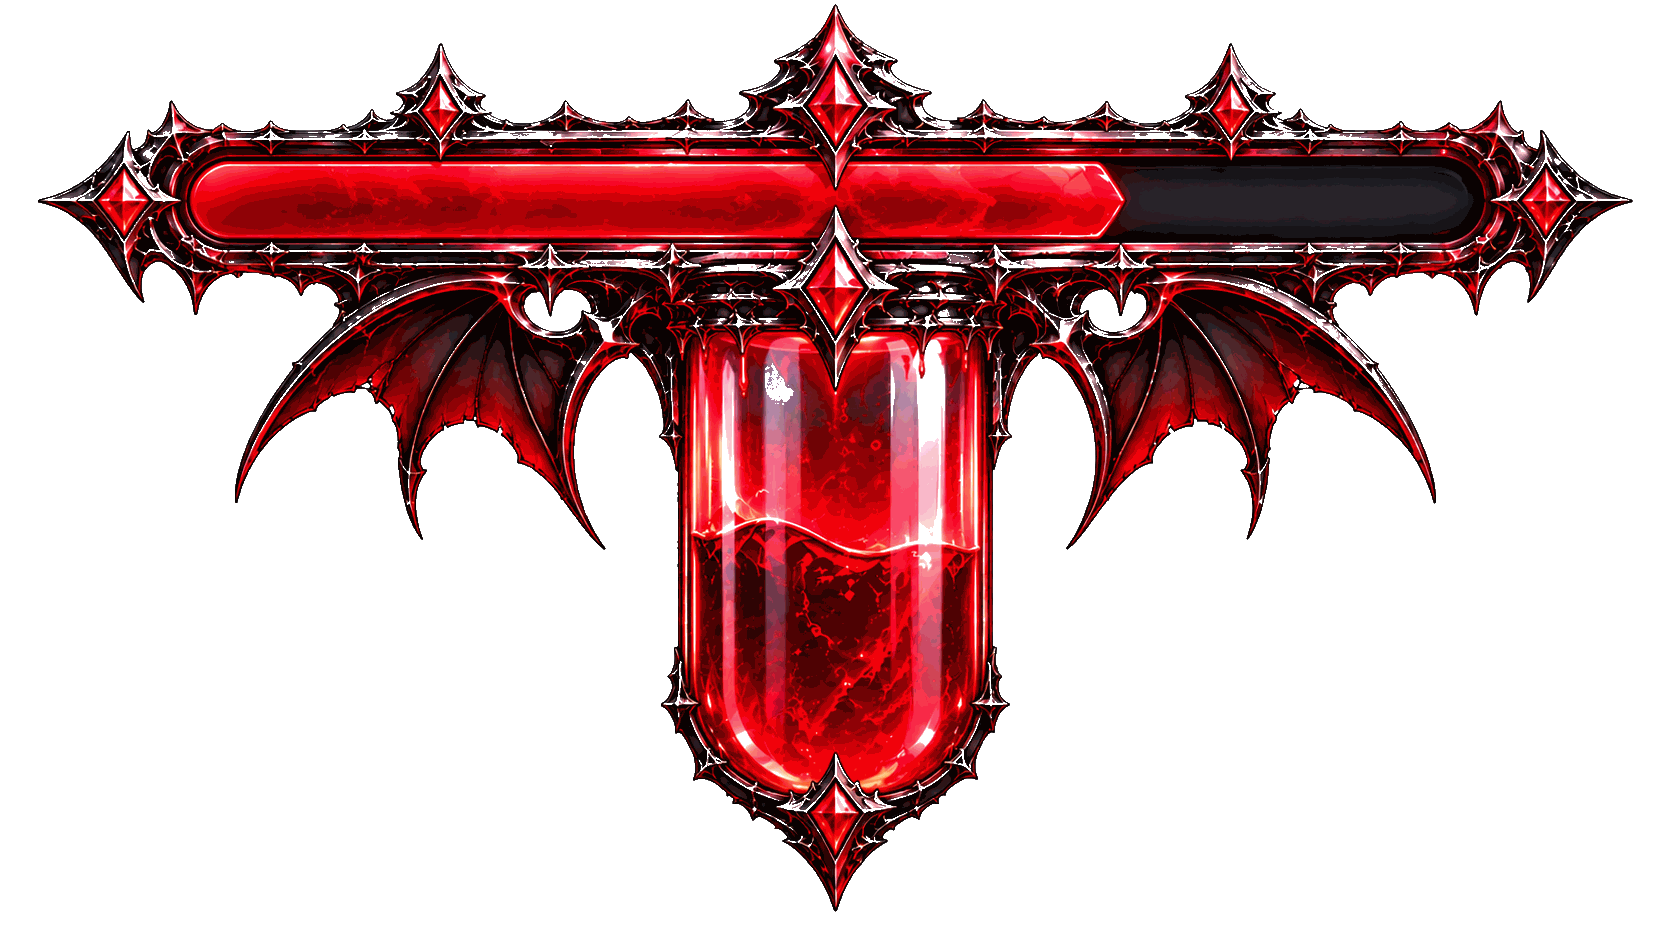
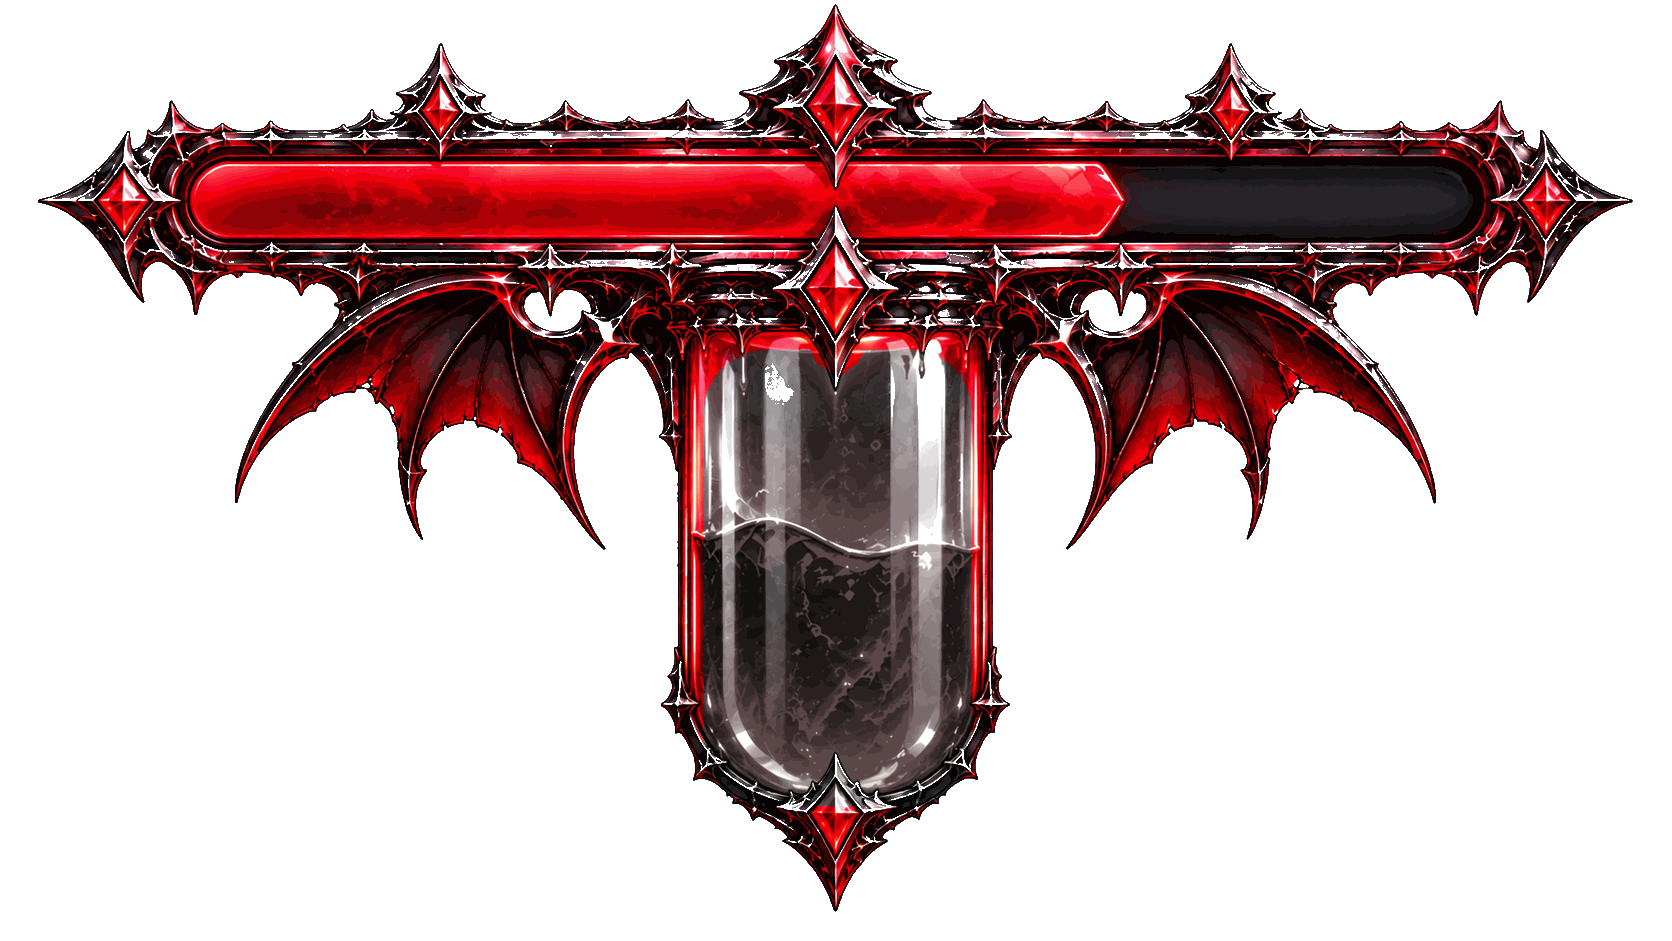
Add files via upload

Changed region(s): [[0.4043, 0.3698, 0.5909, 0.8629]]

diff --git a/index.html b/index.html
@@ -1,7 +1,20 @@
-<!doctype html><html lang="ru"><head><meta charset="utf-8"><meta name="viewport" content="width=device-width,initial-scale=1"><title>Vampire Donation Widget</title><style>
-html,body{margin:0;background:transparent;overflow:hidden;width:100%;height:100%} .widget{position:relative;width:min(100vw,1672px);aspect-ratio:1672/941;margin:0 auto;overflow:hidden}.base{position:absolute;inset:0;width:100%;height:100%;object-fit:contain;display:block}.overlay{position:absolute;inset:0;width:100%;height:100%}.amount{font:700 34px Georgia,serif;fill:#fff;text-anchor:middle;paint-order:stroke;stroke:#111;stroke-width:3px}.pct{font:700 18px Georgia,serif;fill:#fff;text-anchor:middle;paint-order:stroke;stroke:#111;stroke-width:2px}</style></head><body><div class="widget"><img class="base" src="altar.png"><svg class="overlay" viewBox="0 0 1672 941" preserveAspectRatio="none" xmlns="http://www.w3.org/2000/svg"><defs><clipPath id="barClip"><rect x="185" y="163" width="1288" height="73" rx="36"/></clipPath><linearGradient id="dark" x1="0" y1="0" x2="0" y2="1"><stop offset="0" stop-color="#191a20"/><stop offset="1" stop-color="#07080c"/></linearGradient><linearGradient id="red" x1="0" y1="0" x2="0" y2="1"><stop offset="0" stop-color="#ff3144"/><stop offset=".45" stop-color="#d80e22"/><stop offset="1" stop-color="#8d0612"/></linearGradient><filter id="shadow"><feDropShadow dx="0" dy="2" stdDeviation="3" flood-opacity=".55"/></filter></defs>
-<g clip-path="url(#barClip)"><rect x="185" y="163" width="1288" height="73" fill="url(#dark)"/><rect id="fill" x="185" y="163" width="0" height="73" fill="url(#red)"/></g>
-<!-- central jewel is already part of altar.png, so it remains visible over the dynamic bar -->
-<text id="amount" class="amount" x="836" y="209">0 ₽ / 10 000 ₽</text><text id="pct" class="pct" x="1434" y="209">0%</text></svg></div><script>
-const p=new URLSearchParams(location.search);let current=Number(p.get('current')||0),goal=Number(p.get('goal')||10000);try{const s=JSON.parse(localStorage.getItem('vampire_settings')||'{}');if(!p.has('current')&&s.current!=null)current=Number(s.current);if(!p.has('goal')&&s.goal!=null)goal=Number(s.goal)}catch{}if(p.has('demo'))current+=Number(p.get('demo'))||0;function setProgress(c,g){c=Number(c)||0;g=Number(g)||1;const pct=Math.max(0,Math.min(100,c/g*100));document.getElementById('fill').setAttribute('width',1288*pct/100);document.getElementById('amount').textContent=Math.round(c).toLocaleString('ru-RU')+' ₽ / '+Math.round(g).toLocaleString('ru-RU')+' ₽';document.getElementById('pct').textContent=Math.round(pct)+'%'}setProgress(current,goal);window.setDonationProgress=setProgress;
+<!doctype html><html lang="ru"><head><meta charset="utf-8"><meta name="viewport" content="width=1672,height=941,initial-scale=1"><title>Vampire Donation Widget</title>
+<style>html,body{margin:0;width:1672px;height:941px;background:transparent;overflow:hidden}#stage,.layer{position:absolute;left:0;top:0;width:1672px;height:941px}.text{font-family:Georgia,"Times New Roman",serif;font-weight:700;fill:#fff;paint-order:stroke;stroke:#1b0a0a;stroke-width:3px}.sum{font-size:34px}.pct{font-size:22px}</style></head><body><div id="stage">
+<img class="layer" src="altar.png" alt="">
+<svg class="layer" viewBox="0 0 1672 941" xmlns="http://www.w3.org/2000/svg">
+<defs>
+<clipPath id="clip"><rect x="707" y="350" width="264" height="455" rx="62"/></clipPath>
+<linearGradient id="blood" x1="0" y1="0" x2="0" y2="1"><stop offset="0" stop-color="#ff5864"/><stop offset=".18" stop-color="#ed1c35"/><stop offset=".6" stop-color="#a70018"/><stop offset="1" stop-color="#4d0009"/></linearGradient>
+<filter id="blur"><feGaussianBlur stdDeviation="2.2"/></filter></defs>
+<g clip-path="url(#clip)"><image id="tex" href="blood-texture.png" x="707" y="350" width="264" height="455" preserveAspectRatio="none" opacity=".66"/><rect id="tint" x="707" y="350" width="264" height="455" fill="url(#blood)" opacity=".42"/><ellipse id="surface" cx="839" cy="805" rx="128" ry="10" fill="#ff4657" opacity=".9" filter="url(#blur)"/></g>
+<!-- subtle glass sheen, always present -->
+<g opacity=".38"><rect x="721" y="360" width="18" height="430" rx="9" fill="#fff"/><rect x="918" y="360" width="11" height="425" rx="5.5" fill="#fff"/></g>
+</svg>
+<svg class="layer" viewBox="0 0 1672 941" xmlns="http://www.w3.org/2000/svg"><text id="sum" class="text sum" x="836" y="140" text-anchor="middle">0 ₽ / 10 000 ₽</text><text id="pct" class="text pct" x="1500" y="140" text-anchor="middle">0%</text></svg>
+</div>
+<script>
+const q=new URLSearchParams(location.search),clamp=(n,a,b)=>Math.max(a,Math.min(b,n));
+let current=Number(q.get('current')??localStorage.getItem('vampire_current')??4750),goal=Number(q.get('goal')??localStorage.getItem('vampire_goal')??10000);
+function setProgress(c,g){c=Number(c)||0;g=Number(g)||1;const p=clamp(c/g*100,0,100),bottom=805,full=455,top=Math.round(bottom-full*p/100),h=bottom-top;const t=document.getElementById('tex'),ti=document.getElementById('tint');t.setAttribute('y',top);t.setAttribute('height',Math.max(0,h));ti.setAttribute('y',top);ti.setAttribute('height',Math.max(0,h));document.getElementById('surface').setAttribute('cy',top);document.getElementById('sum').textContent=Math.round(c).toLocaleString('ru-RU')+' ₽ / '+Math.round(g).toLocaleString('ru-RU')+' ₽';document.getElementById('pct').textContent=Math.round(p)+'%';}
+window.setDonationProgress=setProgress;setProgress(current,goal);
 </script></body></html>
